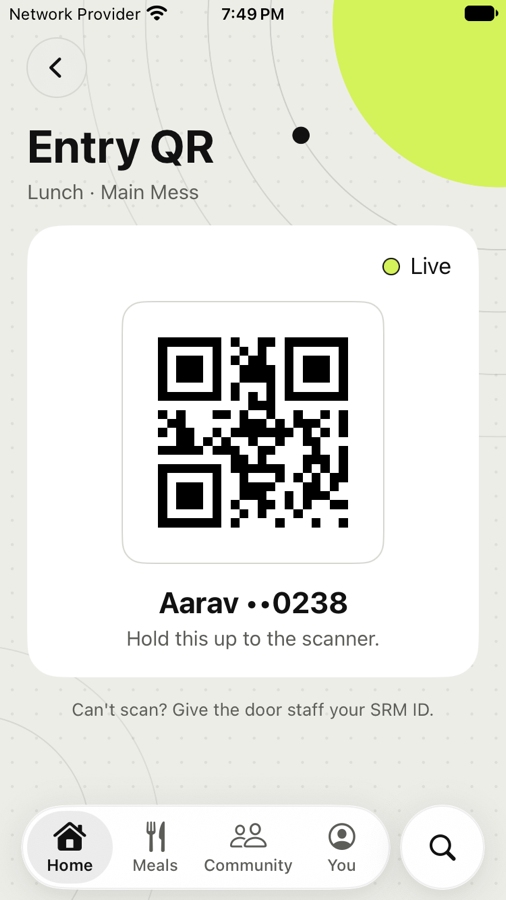
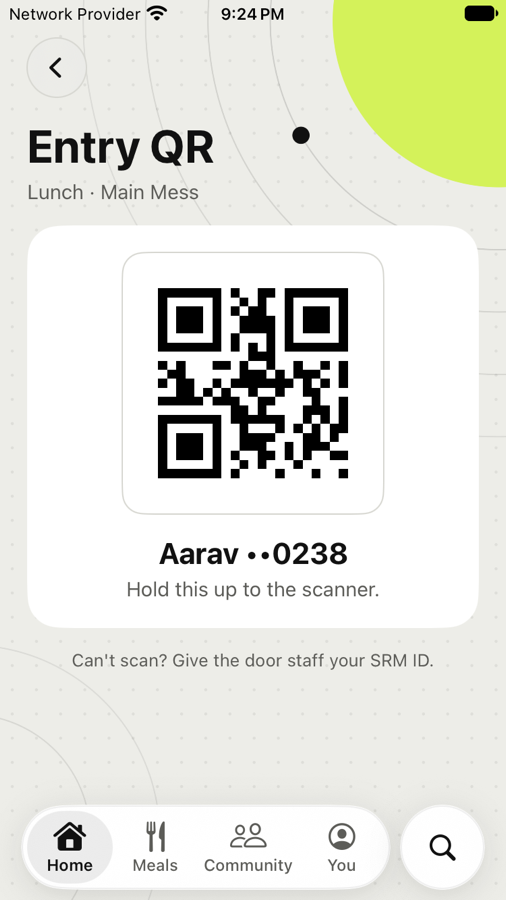
docs(student): record the owner rulings and new QR screenshots

diff --git a/docs/verification/student-home/REPORT.md b/docs/verification/student-home/REPORT.md
@@ -53,6 +53,7 @@ Images are in `design/reference/redesign_2026-10/images/`, and renders in `desig
 | Answer page | Tiles show Chappati, Veg Pulao, Muttar Masala | The first three non-highlight dishes in the seed: Steamed Rice, Chappathi, Muttar Masala |
 | Answer page | Skip opens "Why skipping?" (prompt stage P5) | Not built: the pack lists it as not shown |
 | Entry QR | "Refreshes in 12 s" and its bar | Omitted: the code is static, by owner decision |
+| Entry QR | "Live" with a dot | Removed by owner ruling: a static code must not look like a live check |
 | Entry QR | "Can't scan?" is underlined | Plain text: no destination exists, so it must not look like a link |
 | Entry QR | QR 254 pt wide | 254 pt, smaller on short phones so "Can't scan?" clears the tab bar |
 | Entry QR | "You're in" chip | Shown only when the answer is I'm in. No other chip is drawn |
@@ -64,13 +65,13 @@ Proposed IDs for the owner to merge into `docs/OPEN_DECISIONS.md`.
 
 | ID | Question | What the app does now |
 |---|---|---|
-| P-STUDENT-1 | What makes the mess "closed"? The fourth card is drawn at 6:30 AM, but 03 shows the normal hero at 7:00 AM, and no rule separates them | Not built. The story starts at 7:00 AM, so it is never reached |
-| P-STUDENT-2 | Wording for Not sure | Chip "Not sure", title "Not sure about lunch", line "You can still eat." |
-| P-STUDENT-3 | Eyebrow for later meals. Only "This morning" is drawn | "This afternoon" for lunch, "This evening" for snacks and dinner |
-| P-STUDENT-4 | Next-meal row once answered. Only the question is drawn | The answer as the title, "Change by 10 AM · 3 h left", and an outlined Change |
-| P-STUDENT-5 | Should the answer page open after the cutoff? | Only the row opens it, and the row goes away at the cutoff, so its locked state cannot be reached. The hero's locked state can |
-| P-STUDENT-6 | Should a static code say "Live"? | Shown as drawn. It could read as a live server check |
-| P-STUDENT-7 | Can a student change a hero meal's answer before its cutoff? | No control is drawn. It cannot arise in the story: lunch becomes the hero only after its cutoff |
+| P-STUDENT-1 | What makes the mess "closed"? The fourth card is drawn at 6:30 AM, but 03 shows the normal hero at 7:00 AM, and no rule separates them | **Owner: leave unbuilt.** The story starts at 7:00 AM, so it is never reached |
+| P-STUDENT-2 | Wording for Not sure | **Owner: accepted as built.** Chip "Not sure", title "Not sure about lunch", line "You can still eat." |
+| P-STUDENT-3 | Eyebrow for later meals. Only "This morning" is drawn | **Owner: accepted as built.** "This afternoon" for lunch, "This evening" for snacks and dinner |
+| P-STUDENT-4 | Next-meal row once answered. Only the question is drawn | **Owner: accepted as built.** The answer as the title, "Change by 10 AM · 3 h left", and an outlined Change |
+| P-STUDENT-5 | Should the answer page open after the cutoff? | **Owner: accepted as built.** Only the row opens it, and the row goes away at the cutoff, so its locked state cannot be reached. The hero's locked state can |
+| P-STUDENT-6 | Should a static code say "Live"? | **Owner: no.** The label is removed |
+| P-STUDENT-7 | Can a student change a hero meal's answer before its cutoff? | **Owner: leave.** No control is drawn. It cannot arise in the story: lunch becomes the hero only after its cutoff |
 
 ## Shared changes needed, not made
 
